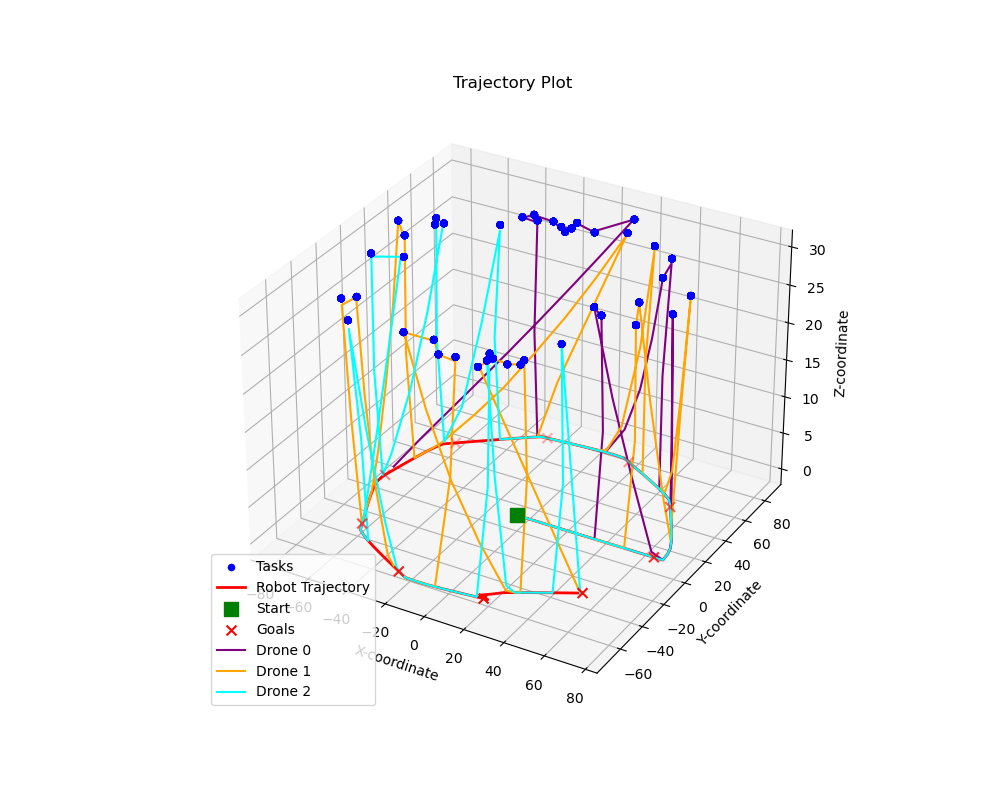
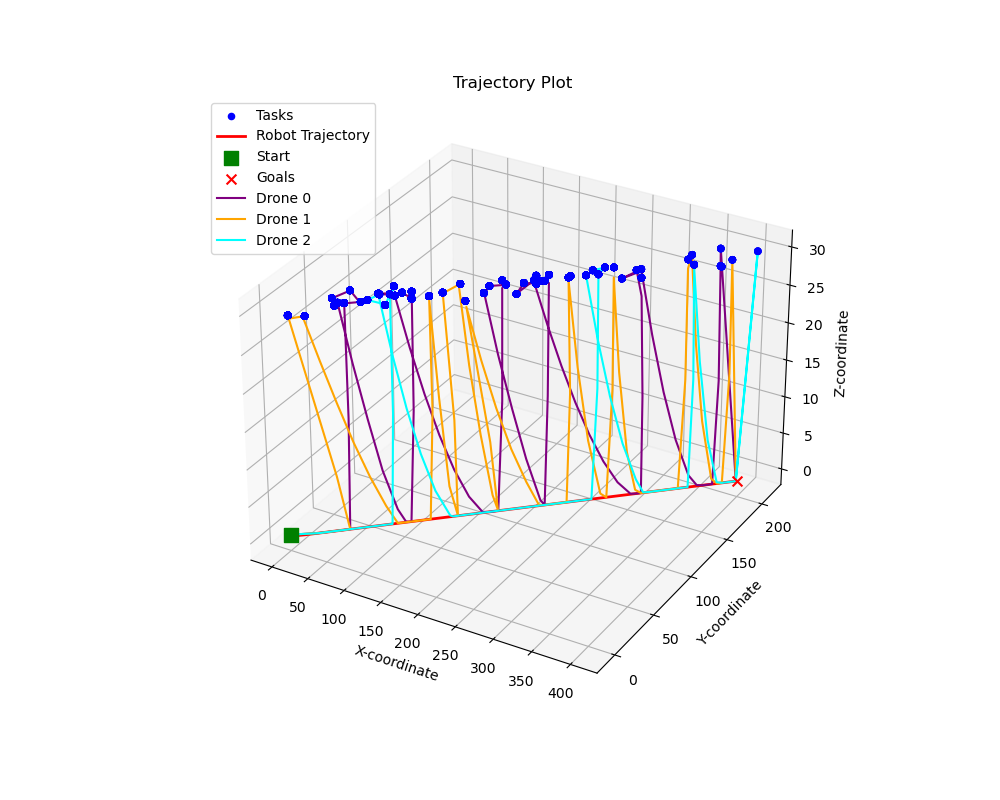
Update tsp.py and add u-curve

diff --git a/robot.py b/robot.py
@@ -15,7 +15,7 @@ class DifferentialDriveRobot:
         # current angular state
         self.theta = theta
 
-        self.vel = [0, 0, 0]   # current velocity
+        self.vel = [0, 0, 0]   # current velocity [speed, omega, 0]
         
         # robot parameters
         self.vmax = vmax
@@ -133,7 +133,17 @@ class DifferentialDriveRobot:
         current_node = np.array(route[-1])
 
         probot = np.array(self.get_position())    # position of robot when drone reach the last node
-        vrobot = self.vel
+
+        vel = self.vel[0]
+
+        if vel <= 0:
+            vel = 0.0001
+        
+        vx = vel * np.cos(self.theta)
+        vy = vel * np.sin(self.theta)
+
+        vrobot = np.array([vx, vy, 0])
+
         ttime = 0                                 # travel time of the route
 
         avai_tasks = self.task
@@ -143,7 +153,7 @@ class DifferentialDriveRobot:
         while traversable_time > 0 and len(avai_tasks) > 0:
             probot += np.array(vrobot)*ttime    # update position of robot when drone reach the last node
 
-            next_node, pos = find_best_node(current_node, traversable_time, avai_tasks, probot, self.vel, uav_vel)
+            next_node, pos = find_best_node(current_node, traversable_time, avai_tasks, probot, vrobot, uav_vel)
 
             if next_node is not None and pos is not None:
                 travel_dis = np.linalg.norm(current_node - next_node)
@@ -175,7 +185,7 @@ class DifferentialDriveRobot:
                 self.finished_task = np.vstack([self.finished_task, self.task[i_pos]])
                 self.task = np.delete(self.task, i_pos, axis=0)
 
-            route, new_cost = tsp(route)
+            route, new_cost = tsp(route, probot)
 
         return route
     
@@ -193,42 +203,6 @@ class DifferentialDriveRobot:
         vnew = max(min(vnew, robot_vmax), robot_vmin)
         
         return vnew
-
-
-    # def calculate_control(self, current_goal_index, goals, Kp_linear, Kp_angular):
-    #     # Calculate the error in position
-    #     goal = goals[current_goal_index]
-
-    #     dx = goal[0] - self.x
-    #     dy = goal[1] - self.y
-    #     distance_error = np.sqrt(dx**2 + dy**2)
-
-    #     if distance_error <= epsilon and self.at_goal == False:
-    #         if current_goal_index < len(goals)-1:
-    #             current_goal_index += 1
-    #         else:
-    #             self.at_goal = True
-        
-    #     # Calculate the desired orientation
-    #     desired_theta = np.arctan2(dy, dx)
-        
-    #     # Calculate the error in orientation
-    #     orientation_error = desired_theta - self.theta
-        
-    #     # Normalize the orientation error to be within -pi to pi
-    #     orientation_error = np.arctan2(np.sin(orientation_error), np.cos(orientation_error))
-        
-    #     # Proportional control for linear and angular velocities
-    #     v = Kp_linear * distance_error
-    #     omega = Kp_angular * orientation_error
-
-    #     if v>self.vmax:
-    #         v = self.vmax
-
-    #     if self.at_goal:
-    #         return 0, 0, current_goal_index
-        
-    #     return v, omega, current_goal_index
     
     def calculate_control(self, current_goal_index, goals):
 
@@ -246,8 +220,10 @@ class DifferentialDriveRobot:
 
 def find_best_node(current_node, traversable_time, task_set, robot_position, robot_vel, uav_vel):
 
-    # argmax        probabilites(q)
-    # subject to    distance(current_node,q)+distance(q,new_robot) < traversable_len
+    """ argmax        probabilites(q)
+        subject to    distance(current_node,q)+distance(q,new_robot) < traversable_len  """
+    
+    # Note that robot_vel here has to be [vx, vy, vz]
 
     # first find the new_robot position for each point q
     t_total = np.zeros(len(task_set))

diff --git a/tsp.py b/tsp.py
@@ -20,30 +20,32 @@ def two_opt(route):
     for i in range(1, len(route) - 2):
         for j in range(i + 1, len(route) - 1):
             # Create a new route by reversing the order of nodes between i and j
-            # new_cost = calculate_total_distance(new_route)
             new_cost = best_cost+distance(route[i-1],route[j])+distance(route[i],route[j+1])-distance(route[i-1],route[i])-distance(route[j],route[j+1])
             
             if new_cost < best_cost:
-                # remove edges (i-1,i) and (j,j+1), add edges (i-1,j) and (i,j+1)
                 new_route = route[:i] + route[i:j+1][::-1] + route[j+1:]
 
                 best_route = new_route
                 best_cost = new_cost
-                # improved = True
                 print('Improved by TwoOpt')
 
     route = best_route
     
     return best_route, best_cost
 
-def tsp(route):
+def tsp(route, fprobot):
     # input as route = [p1, p2, ..., pn]
     # with p1 is robot position
     # p2, ..., pn is tasks
+    # fprobot is the prediction of GV position when drone come back
 
     if (len(route) == 1):
         return route, np.inf
+    
+    route.append(fprobot)
 
     tsp_route, tsp_cost = two_opt(route)
+
+    del tsp_route[-1]
 
     return tsp_route, tsp_cost

diff --git a/robot_trajectory.py b/robot_trajectory.py
@@ -28,5 +28,46 @@ def circular_path(n=10, r=70, center=(0, 0, 0)):
 
     return np.array(points)
 
-def curve_line():
-    pass
+def u_curve(start=start):
+    
+    points = []
+
+    d = 500  # distance between 2 edges of u-curve
+    l = 200  # length of 2 edges of u-curve
+
+    n = 30  # total number of waypoints
+
+    # straight line of u-curve
+    for i in range (int(n/3)):
+        new_wp = [0, 0, 0]
+        new_wp[0] = start[0]
+        new_wp[1] = start[1] + i*l/(n/3)
+        new_wp[2] = 0
+
+        points.append(new_wp)
+
+    # the curve part
+    xc = start[0] + d/2
+    yc = start[1] + l
+    zc = 0
+    
+    angles = np.linspace(np.pi, 0, int(n/3), endpoint=False)
+    r = d/2
+    
+    for angle in angles:
+        x = r * np.cos(angle) + xc
+        y = r * np.sin(angle) + yc
+        z = zc
+        points.append([x, y, z])
+
+    # the other straight line    
+    for i in range (int(n/3)):
+        new_wp = [0, 0, 0]
+        new_wp[0] = start[0] + d
+        new_wp[1] = start[1] + (l - i*l/(n/3))
+        new_wp[2] = 0
+
+        points.append(new_wp)
+
+    return points
+

diff --git a/main.py b/main.py
@@ -126,7 +126,7 @@ def simulate_robot(goals, dt, max_steps):
 
 def main():
 
-    goals = np.array(circular_path())
+    goals = np.array(straight_line())
 
     # Simulate the robot
     robot_state, vr, drones_info, task_list, finished_task = simulate_robot(goals, dt, max_steps)

diff --git a/controller.py b/controller.py
@@ -1,7 +1,7 @@
 import numpy as np
 from config import *
 
-def robot_controller(robot, current_goal):
+def simple_controller(robot, current_goal):
     dx = current_goal[0] - robot.x
     dy = current_goal[1] - robot.y
     distance_error = np.sqrt(dx**2 + dy**2)

diff --git a/README.md b/README.md
@@ -1,6 +1,6 @@
 # cooperative_planning
 An implementation of multi robots to perform cooperative tasks
 
-For this result: number of unassigned task 3, number of assigned task 44, number of crashed drone 0
+For this result: number of unassigned task .., number of assigned task .., number of crashed drone ..
 
 ![Result](robot_trajectory.gif)
